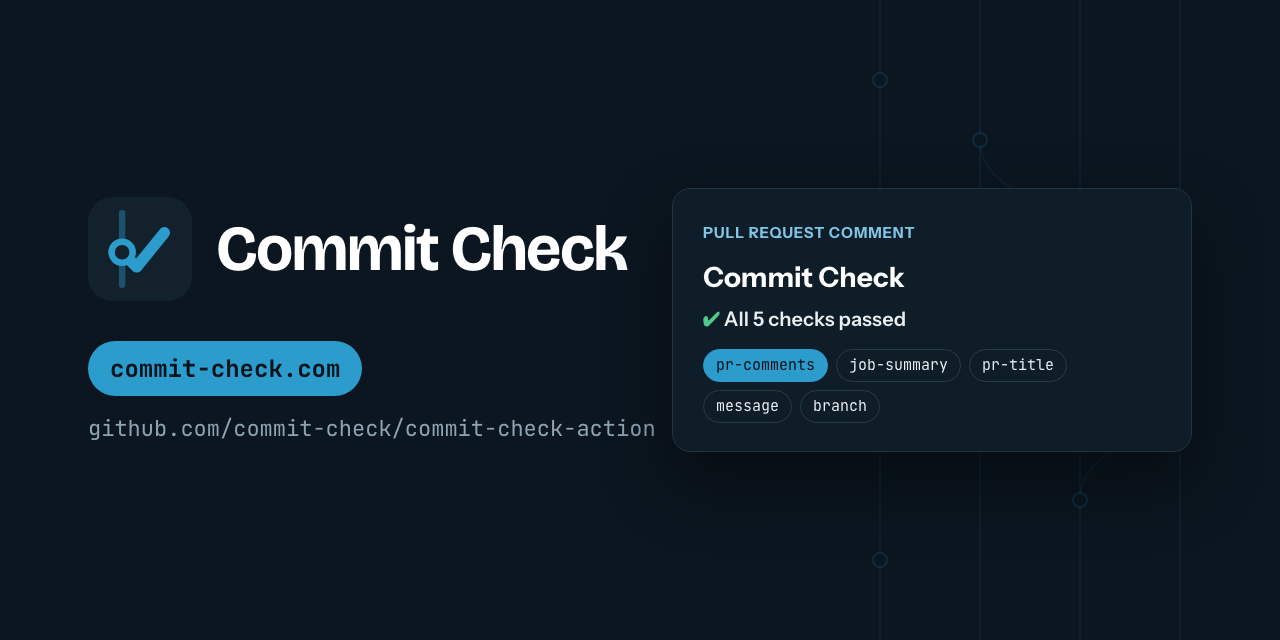
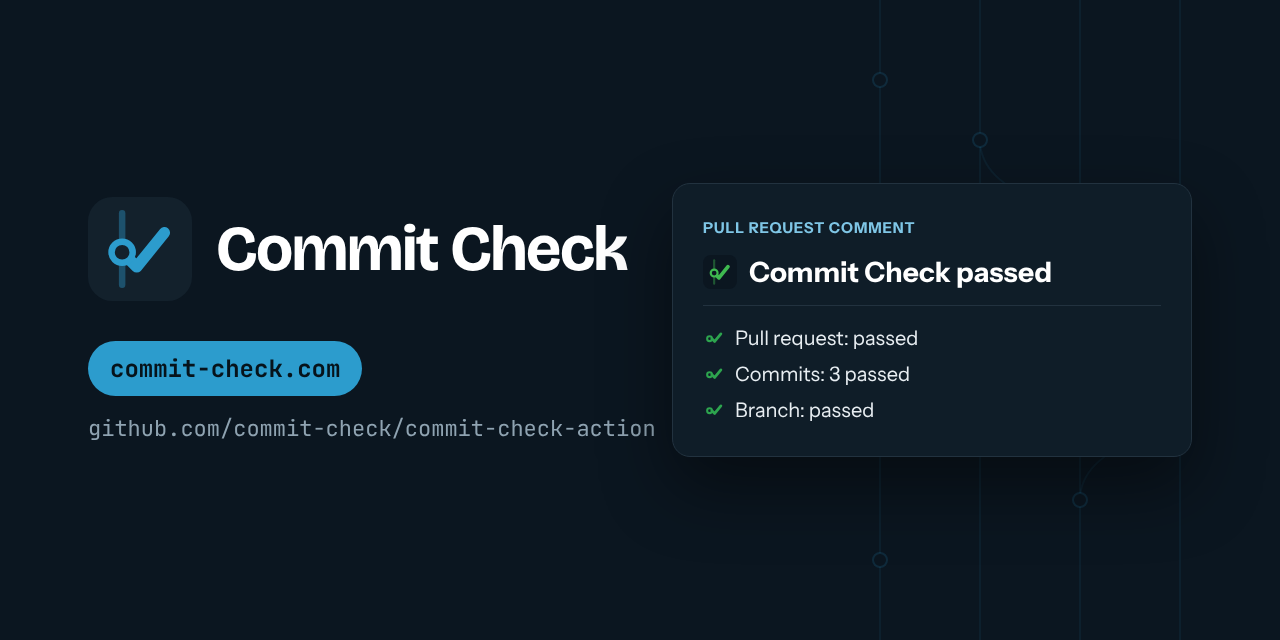
fix(branding): show today's output on the CLI and Action social previews (#83)

Changed region(s): [[0.5312, 0.4062, 0.8438, 0.6562], [0.5312, 0.3438, 0.7188, 0.375], [0.375, 0.375, 0.4062, 0.4062]]

diff --git a/branding/src/social.html b/branding/src/social.html
@@ -2,8 +2,8 @@
 <!-- GitHub social preview, 1280x640. social.html?repo=<name> picks the panel;
      no repo gives the org-wide card. The left column is the lockup and an
      address, never a tagline (see ../README.md). The CLI and MCP panels are
-     real output (commit-check 2.18.0); the Action panel follows its report
-     format; the App's commits are sample data. -->
+     real output (CLI: commit-check 2.23.0, MCP: 2.18.0); the Action panel is
+     the head of its PR comment (commit-check-action 2.22.0 and later); the App's commits are sample data. -->
 <html lang="en">
 <head>
 <meta charset="utf-8">
@@ -40,10 +40,10 @@
   .b { font-weight: 700; }
   .blue { color: var(--blue-soft); }
   .rule { height: 1px; background: var(--ink-line); margin: 12px 0; }
-  .chips { display: flex; flex-wrap: wrap; gap: 8px; margin-top: 14px; }
-  .chips span { font-size: 15px; line-height: 1; padding: 8px 12px; border-radius: 999px; border: 1px solid #2a3b48; color: var(--on-ink); }
-  .chips span:first-child { background: var(--blue); border-color: var(--blue); color: #06131b; }
   .strike { text-decoration: line-through; text-decoration-color: rgba(255,122,110,.6); }
+  .warn { color: var(--warn, #f2b866); }
+  .head { display: flex; align-items: center; gap: 12px; font-family: var(--text); font-size: 28px; font-weight: 700; color: #fff; line-height: 1.3; padding-bottom: 14px; margin-bottom: 14px; border-bottom: 1px solid var(--ink-line); }
+  .grp { display: flex; align-items: center; gap: 10px; font-family: var(--text); font-size: 20px; line-height: 36px; }
   [data-repo] { display: none; }
 </style>
 </head>
@@ -72,18 +72,18 @@
   <!-- commit-check: the CLI. -->
   <div class="panel mono" data-repo="commit-check">
     <div class="l dim">$ echo "Fix: add login" | commit-check -m</div>
-    <div class="l"><span class="bad b">CC001</span> message check failed ==&gt;</div>
-    <div class="l">Fix: add login</div>
-    <div class="l"><span class="blue">Suggest:</span> Use "<span class="ok b">fix: add login</span>"</div>
-    <div class="l dim">Docs: commit-check.com/rules/#cc001</div>
+    <div class="l"><span class="bad b">✖ CC001</span> <span class="warn">message</span> failed: <span class="bad">Fix: add login</span></div>
+    <div class="l">  <span class="ok b">Suggest:</span> <span class="ok">Use "fix: add login"</span></div>
+    <div class="l dim">  Docs: commit-check.com/rules/#cc001</div>
   </div>
 
   <!-- commit-check-action: the PR comment. -->
   <div class="panel" data-repo="commit-check-action">
     <div class="label">Pull request comment</div>
-    <div style="font-size: 28px; font-weight: 700; color: #fff; line-height: 1.3">Commit Check</div>
-    <div style="font-size: 20px; font-weight: 600; margin-top: 8px"><span class="ok">✔</span> All 5 checks passed</div>
-    <div class="chips mono"><span>pr-comments</span><span>job-summary</span><span>pr-title</span><span>message</span><span>branch</span></div>
+    <div class="head"><img src="../status/passed.svg" width="34" height="34" alt="">Commit Check passed</div>
+    <div class="grp"><img src="../status/line-passed.svg" width="22" height="22" alt="">Pull request: passed</div>
+    <div class="grp"><img src="../status/line-passed.svg" width="22" height="22" alt="">Commits: 3 passed</div>
+    <div class="grp"><img src="../status/line-passed.svg" width="22" height="22" alt="">Branch: passed</div>
   </div>
 
   <!-- commit-check-app: one check run per commit. -->
